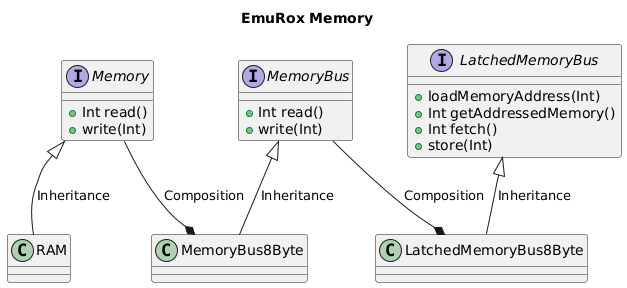
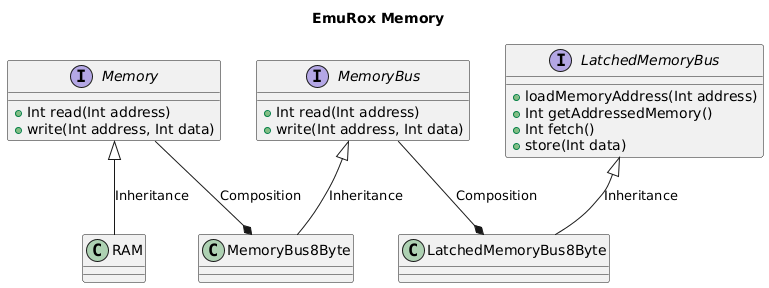
Documentation of approach to memory

diff --git a/src/main/java/com/rox/mem/Latched8BitMemoryBus.java b/src/main/java/com/rox/mem/Latched8BitMemoryBus.java
@@ -4,7 +4,7 @@ package com.rox.mem;
  * 16bit addressed, 8bit data memory
  */
 public class Latched8BitMemoryBus implements LatchedMemoryBus {
-    private final MemoryBus memoryBus;
+    private final MemoryBus memoryBus; //XXX: Should probably make this MemoryBus8Bit which would do the masking for us
     private int addressedMemory;
 
     public final static int ADDRESS_MASK = 0xFFFF;

diff --git a/src/main/java/com/rox/mem/README.md b/src/main/java/com/rox/mem/README.md
@@ -1,0 +1,16 @@
+# Memory Design
+
+Memory is layered in order to allow maximum flexibility.  We can have standard memory where we can write to an
+address in one call or latched where you set the address bus then you read or write separately.  I also implemented
+the bus thinking of situations where we would want logging busses or multiple destination buses.  It may be overkill.
+However, we have:
+
+1. `Memory` interface that can be read from or written to
+2. `RAM` implementation of `Memory` where you can put data at a given address
+3. `MemoryBus` interface that can be read from or written to as if it were direct to the memory
+  <i>this may be overkill but for now it stays</i>
+4. `MemoryBus8Bit` implementation of `MemoryBus` created for the MOS6502 which masks the address to 16bits and data to 8 bits.
+5. `LatchedMemoryBus` which splits address and data into a two step process; set the address then read/write to it.
+6. `Latched8BitMemoryBus` implementation of `LatchedMemoryBus`, masking addresses to 16 bits and data to 8 bits
+
+![Memory Implementation](https://github.com/rossdrew/EmuRoxLab/blob/main/resource/memory%20uml.png)
